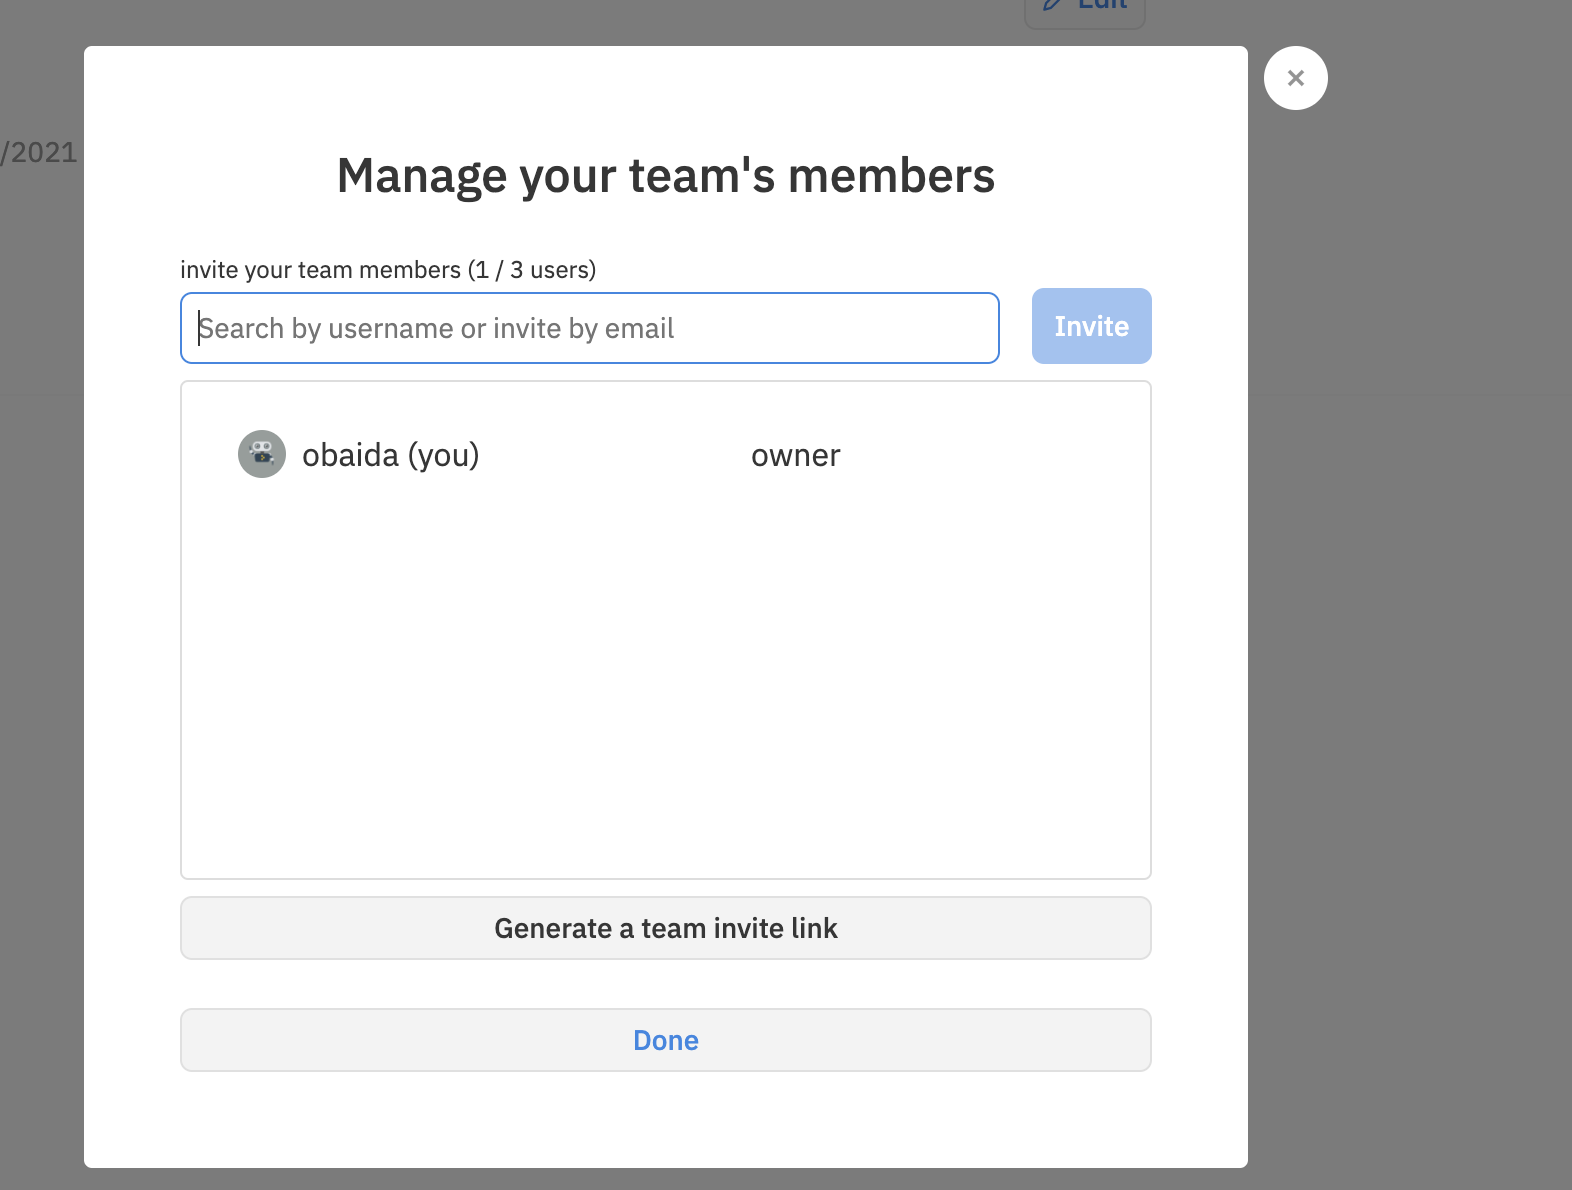
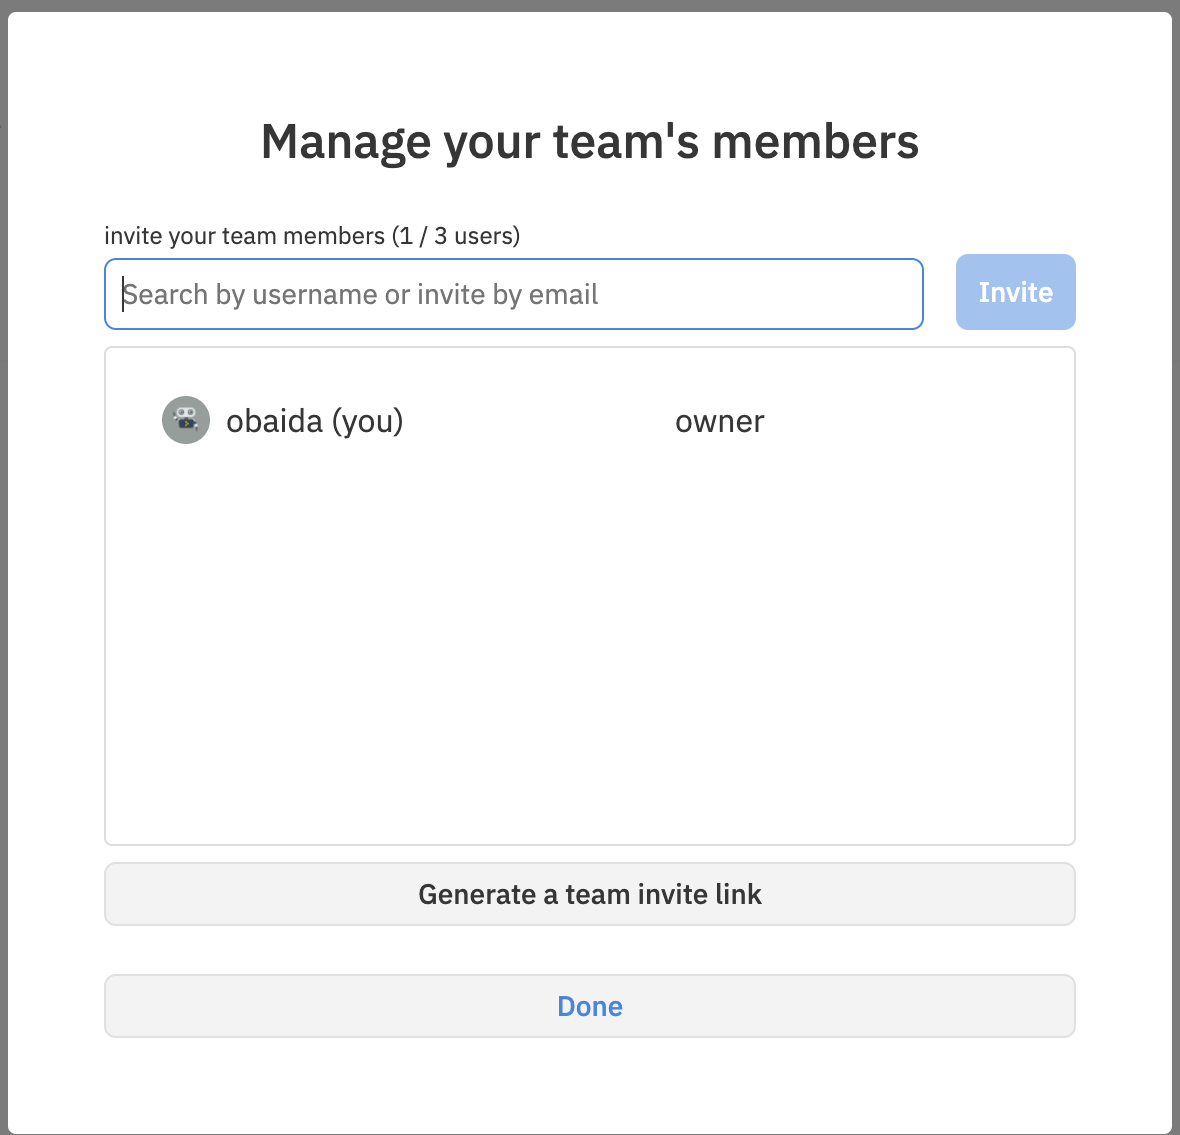
updated links on the replit libraries page (#277)
updated links on the tutorial overview page

diff --git a/programming-ide/replit-libraries.md b/programming-ide/replit-libraries.md
@@ -9,16 +9,20 @@ Replit web is a Python web framework that is integrated with Replit DB and Repli
 * **Documentation:** [https://replit-py.readthedocs.io/en/latest/web_tutorial.html](https://replit-py.readthedocs.io/en/latest/web_tutorial.html)
 * **Announcement:** [A Python Framework With Built-in Database and Auth Support](https://blog.replit.com/replit-web)
 * [Build a technical challenge website with Replit.web](/tutorials/28-technical-challenge-site)
+* [Build a paid content site with Replit.web and Stripe](/tutorials/29-paid-content-site)
 
 ## Kaboom
 
 Kaboom is a JavaScript library for GUI development, focused on making games. You can find some example games with walkthrough guides below.
 
-* **Homepage:** [https://kaboomjs.com/](https://kaboomjs.com/)
+* **Homepage:** [https://kaboomjs.com](https://kaboomjs.com)
+* **Book:** [https://makejsgames.com](https://makejsgames.com)
+* [Build Snake with Kaboom](/tutorials/21-build-snake-with-kaboom)
 * [Build Asteroids with Kaboom](/tutorials/23-build-asteroids-with-kaboom)
 * [Build a space shooter with Kaboom](/tutorials/24-build-space-shooter-with-kaboom)
 * [Build a 3d game with Kaboom](/tutorials/25-build-3d-game-with-kaboom)
 * [Build Tic-Tac-Toe with Kaboom and Websockets](/tutorials/27-build-tictactoe-with-websockets-kaboom)
+* [Build Mario with Kaboom](/tutorials/32-build-mario-with-kaboom)
 
 
 ## Replit Auth

diff --git a/teams-pro/managing-teams.md b/teams-pro/managing-teams.md
@@ -2,7 +2,9 @@
 
 To create a team, click the "Teams" tab in the sidebar. From the Teams dashboard, click "+ Create a team" and follow the steps. You can invite people using their Replit username or their email address, or by sharing a link through the "Generate a team invite link" button (the link does not expire).
 
-<img src="/images/teamsPro/manageTeam.png" />
+<img src="/images/teamsPro/manageTeam.png"
+alt="Manage Team"
+style="width: 70% !important;"/>
 
 If you've already created a team, navigate to the [Teams dashboard](https://replit.com/teams) and then click on your team name. Once inside, click "Manage team members" in the header. From there, you can invite new members to your existing team.
 

diff --git a/tutorials/00-overview.md b/tutorials/00-overview.md
@@ -154,6 +154,13 @@ Revisit Nix on Replit to build a multi component app that allows users to subscr
 
 Learn more on the capabilities of the Kaboom game engine by building a *Mario*-like side-scroller game.
 
+#### [Lesson 33: Build an escrow contract on the Ethereum blockchain with Solidity and Replit](./33-escrow-contract-with-solidity)
+
+Learn more on developing Ethereum smart contracts using the Solidity programming language on Replit and deploying the contracts to a blockchain.
+
+#### [Lesson 34: Creative coding with Replit](./34-creative-coding)
+
+Explore the tools provided by Replit for creating graphics, 3D worlds, games, sounds, and other more creative things.
 
 ## Other tutorials
 

diff --git a/teams-pro/intro-teams-pro.md b/teams-pro/intro-teams-pro.md
@@ -28,7 +28,7 @@ The platform it is built around four cornerstones which we used to inform its fe
 ## 3. Host
   - You can create internal tools such as Slack bots, web services, lunch roulette, data processing, scrapers, etc.
 
-  <img src="https://pbs.twimg.com/media/EuCd-dvVkAwNO8K?format=jpg&name=large" alt="Our internal tool"/>
+  <img src="https://pbs.twimg.com/media/EuCd-dvVkAwNO8K?format=jpg&name=large" alt="Our internal tool" style="width: 60% !important;"/>
 
   - If you use always-on with hosting, you can spin up your blogs, docs, scripting tools, etc., at unprecedented speeds.
 
